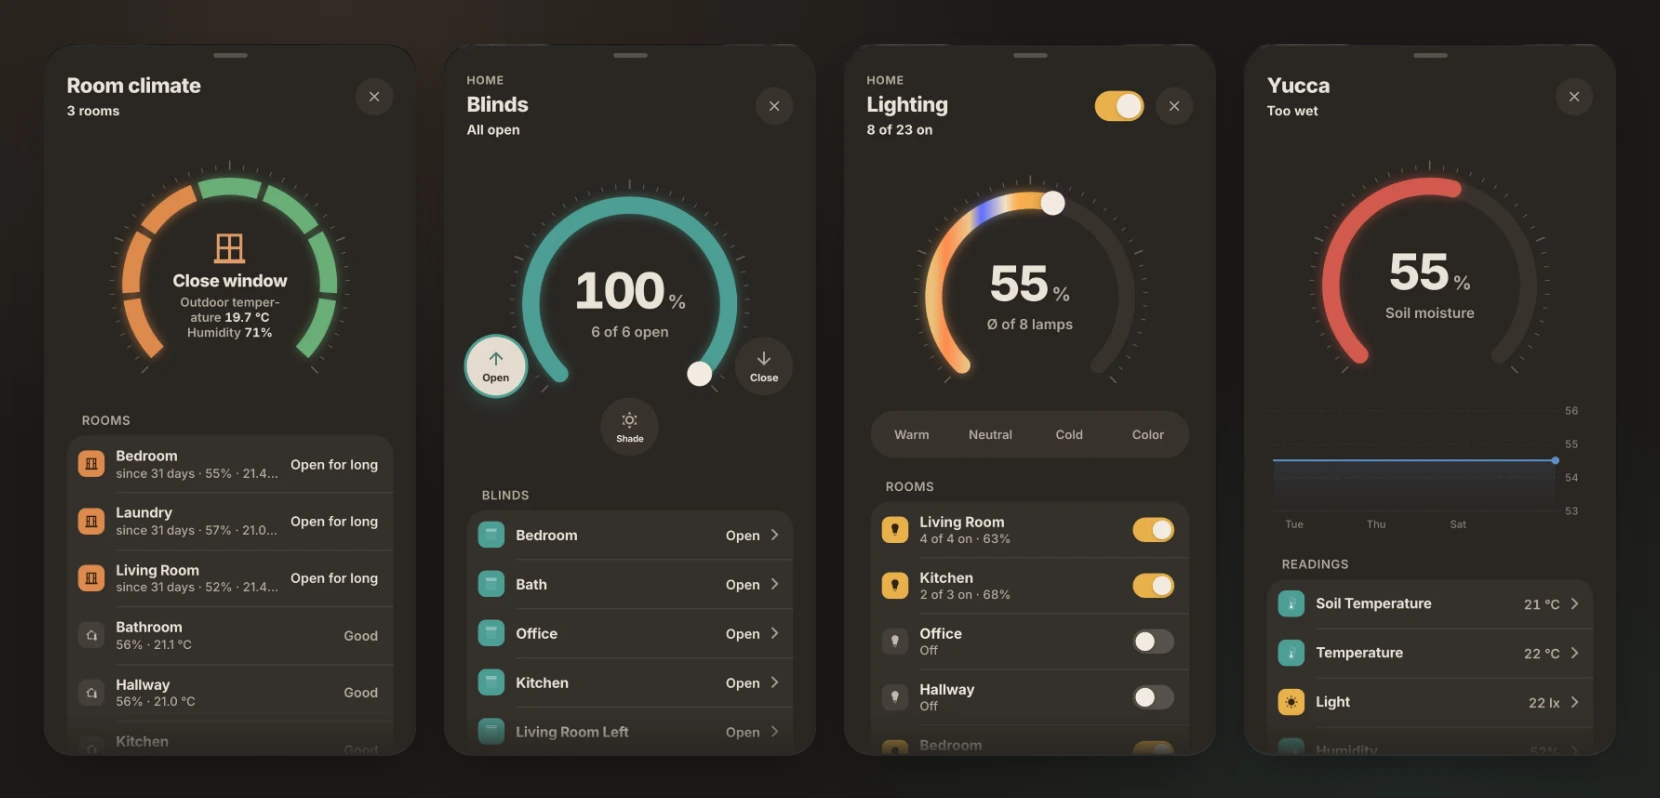
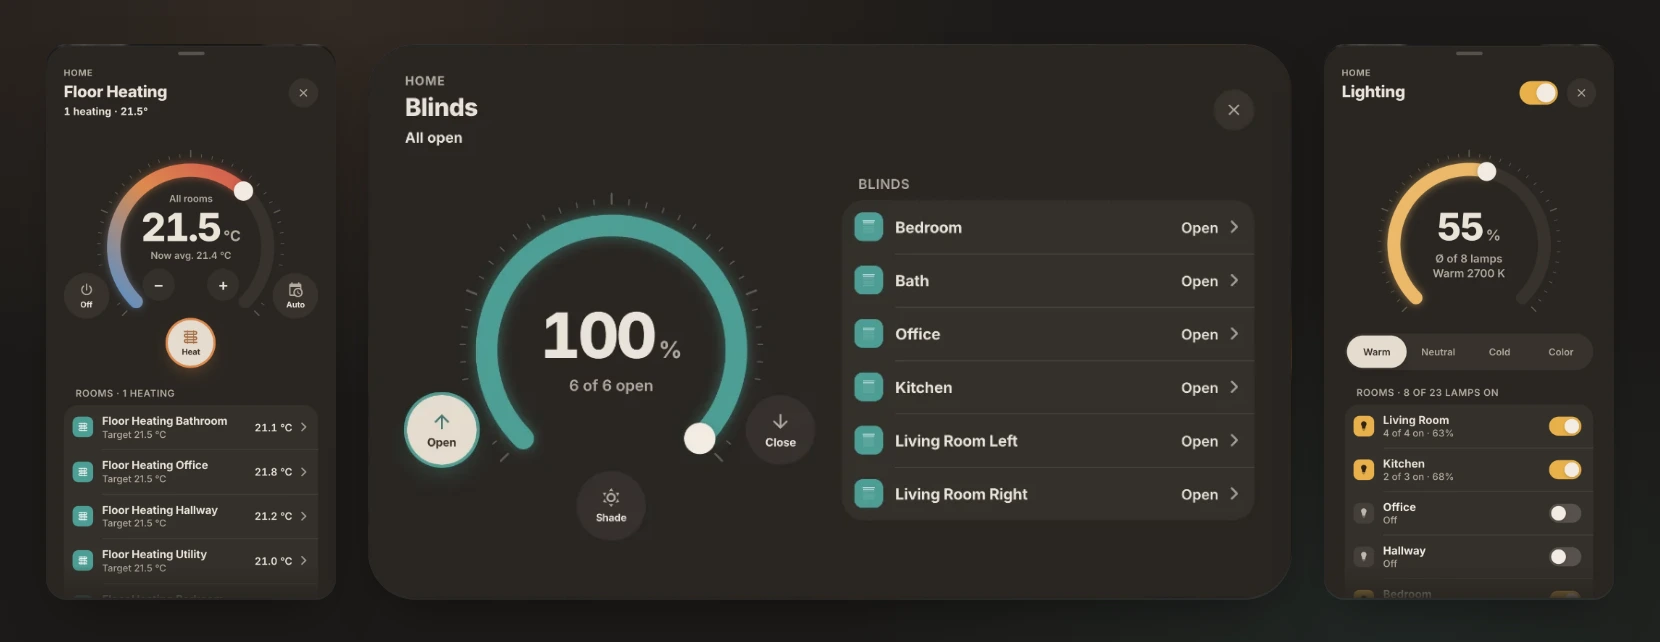
README: heating and lighting on the phone, blinds on the desktop
Claude-Session: https://claude.ai/code/session_01TLmTtYeQmDLn8ETUmm61MJ

diff --git a/README.md b/README.md
@@ -33,9 +33,9 @@ Every popup puts the one thing you opened it for in the middle, usually a large 
 <p align="center">
   <picture>
     <source media="(prefers-color-scheme: dark)" srcset="docs/images/readme-popups-dark.webp" />
-    <img src="docs/images/readme-popups-light.webp" alt="Four complete Casora popups on a phone: room climate, blinds, lighting and a plant, each with its dial and the list below." />
+    <img src="docs/images/readme-popups-light.webp" alt="Three Casora popups: floor heating on a phone, the blinds on a desktop display and lighting on a phone, each with its dial and the list beside or below it." />
   </picture>
-  <br/><sub>Room climate, blinds, lighting and a plant: one dial each.</sub>
+  <br/><sub>Heating and lighting on the phone, blinds on the desktop: one dial each.</sub>
 </p>
 
 | You have | The popup puts first |
